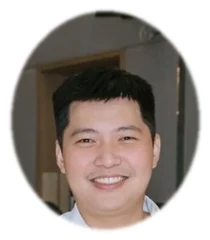
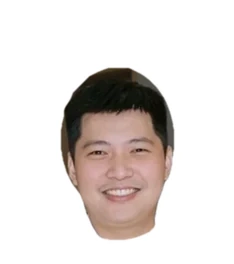
Đầu chibi cắt theo hình đầu có viền trắng dày, tay cắm hoa mượt hơn và chậm hơn, các anh xếp vòng cung vỗ tay chúc mừng
Claude-Session: https://claude.ai/code/session_01MAp9h25oyVUjyk4HgxeQqK

diff --git a/assets/modules.js b/assets/modules.js
@@ -84,11 +84,14 @@ function w20Chibi(g, cx, gy, sc, o) {
   g.fillStyle = shirt === "#ffffff" ? "#e9eef2" : "#33384a"; g.beginPath(); g.moveTo(-9, top); g.lineTo(0, top + 14); g.lineTo(9, top); g.closePath(); g.fill();
   /* tay trái (vẫy theo nhịp chạy) */
   g.lineCap = "round"; g.strokeStyle = shirt; g.lineWidth = 13;
-  g.beginPath(); g.moveTo(-26, top + 10); g.lineTo(-34 - swing * .3, top + 36 + swing * .5); g.stroke(); g.fillStyle = skin; g.beginPath(); g.arc(-34 - swing * .3, top + 40 + swing * .5, 7, 0, 6.283); g.fill();
+  g.lineJoin = "round"; var cs = o.clap == null ? 0 : (1 + Math.cos(o.clap)) / 2;
+  if (o.clap != null) { var lx = -2 - 12 * cs, ly = top + 26; g.beginPath(); g.moveTo(-26, top + 10); g.lineTo(-24 + 8 * (1 - cs), top + 30); g.lineTo(lx, ly); g.stroke(); g.fillStyle = skin; g.beginPath(); g.arc(lx, ly, 7, 0, 6.283); g.fill(); }
+  else { g.beginPath(); g.moveTo(-26, top + 10); g.lineTo(-34 - swing * .3, top + 36 + swing * .5); g.stroke(); g.fillStyle = skin; g.beginPath(); g.arc(-34 - swing * .3, top + 40 + swing * .5, 7, 0, 6.283); g.fill(); }
   /* tay phải: có o.reach=[x,y] (toạ độ canvas) thì duỗi tay 2 khúc tới đó, không thì giơ theo "up" */
-  var sx0 = 26, sy0 = top + 12, hx, hy, ex = null, ey = 0, L = 44;
-  if (o.reach) {
-    var tx = (o.reach[0] - cx) / (sc * dir), ty = (o.reach[1] - gy) / sc + lift, dx = tx - sx0, dy = ty - sy0, d = Math.sqrt(dx * dx + dy * dy) || 1, mx = 2 * L * 1.2;
+  var sx0 = 26, sy0 = top + 12, hx, hy, ex = null, ey = 0, L = 48;
+  if (o.clap != null) { hx = 2 + 12 * cs; hy = top + 26; ex = 24 - 6 * cs; ey = top + 34; }
+  else if (o.reach) {
+    var tx = (o.reach[0] - cx) / (sc * dir), ty = (o.reach[1] - gy) / sc + lift, dx = tx - sx0, dy = ty - sy0, d = Math.sqrt(dx * dx + dy * dy) || 1, mx = 2 * L * 1.02;
     if (d > mx) { dx *= mx / d; dy *= mx / d; d = mx; }
     hx = sx0 + dx; hy = sy0 + dy; var Ls = Math.max(L, d / 2 + 1), h2 = Math.sqrt(Math.max(0, Ls * Ls - d * d / 4)), ux = dx / d, uy = dy / d, mxp = sx0 + ux * d / 2, myp = sy0 + uy * d / 2;
     var e1x = mxp - uy * h2, e1y = myp + ux * h2, e2x = mxp + uy * h2, e2y = myp - ux * h2; if (e1y > e2y) { ex = e1x; ey = e1y; } else { ex = e2x; ey = e2y; }
@@ -97,11 +100,11 @@ function w20Chibi(g, cx, gy, sc, o) {
     g.strokeStyle = "#2f8a4f"; g.lineWidth = 4; g.beginPath(); g.moveTo(hx, hy - 20); g.lineTo(hx + 2, hy + 36); g.stroke();
     g.fillStyle = "#3e9a5f"; g.beginPath(); g.ellipse(hx + 9, hy + 20, 9, 4, -.6, 0, 6.283); g.fill();
   }
-  g.strokeStyle = shirt; g.lineWidth = 13; g.beginPath(); g.moveTo(sx0, sy0); if (ex !== null) g.lineTo(ex, ey); g.lineTo(hx, hy); g.stroke();
+  g.strokeStyle = shirt; g.lineWidth = 13; g.lineJoin = "round"; g.beginPath(); g.moveTo(sx0, sy0); if (ex !== null) g.lineTo(ex, ey); g.lineTo(hx, hy); g.stroke();
   g.fillStyle = skin; g.beginPath(); g.arc(hx, hy, 7.5, 0, 6.283); g.fill();
   if (o.flower) { var fs = 50; g.save(); g.translate(hx, hy - 26); g.rotate(Math.sin(step) * .06); g.drawImage(o.flower, -fs / 2, -fs / 2, fs, fs); g.restore(); }
   /* đầu to */
-  var img = o.img, hw = 112, hh = 126; if (img && img.naturalWidth) { hh = hw * img.naturalHeight / img.naturalWidth; }
+  var img = o.img, hw = 108, hh = 126; if (img && img.naturalWidth) { hh = hw * img.naturalHeight / img.naturalWidth; }
   g.save(); g.translate(0, top - hh * .36); g.rotate(Math.sin(step) * .07 * (o.run ? 1 : .3));
   if (img && img.complete && img.naturalWidth) { g.shadowColor = "rgba(0,0,0,.3)"; g.shadowBlur = 8; g.shadowOffsetY = 3; g.scale(dir, 1); g.drawImage(img, -hw / 2, -hh / 2, hw, hh); }
   else { g.fillStyle = skin; g.beginPath(); g.ellipse(0, 0, 50, 56, 0, 0, 6.283); g.fill(); g.fillStyle = "#222"; g.beginPath(); g.arc(-16, -4, 5, 0, 6.283); g.arc(16, -4, 5, 0, 6.283); g.fill(); }
@@ -118,31 +121,31 @@ function w20BouquetUI(box, opt) {
   var pal = box.querySelector(".bqpal"), cv = box.querySelector(".bqcv"), g = cv.getContext("2d"), an = box.querySelector(".bqan"), ag = an.getContext("2d"), info = box.querySelector(".bqinfo"), raf = 0, rafA = 0;
   MEN.forEach(function (m) { w20Img(m.img); });
   pal.innerHTML = W20FL.map(function (f, i) { return '<button type="button" class="fl" data-i="' + i + '" aria-label="Thêm hoa ' + f + '"><img alt="" src="' + w20FlowerSprite(i).toDataURL() + '"><span>' + f + "</span></button>"; }).join("");
-  var actors = [], queue = [], nextMan = 0, side = 1, reduce = window.matchMedia && matchMedia("(prefers-reduced-motion: reduce)").matches, pendingCount = 0;
+  var crew = [], finaleOn = false, actors = [], queue = [], nextMan = 0, side = 1, reduce = window.matchMedia && matchMedia("(prefers-reduced-motion: reduce)").matches, pendingCount = 0;
   function draw() { g.clearRect(0, 0, CW, CH); w20DrawBouquet(g, CX, CY, SR, list); }
   function text() {
     var n = list.length + pendingCount;
     info.textContent = !n ? "Chạm vào loại hoa để các anh chạy ra cắm giúp nha (tối đa " + MAX + " bông)" : n < min ? "Đã có " + n + " bông, cần thêm " + (min - n) + " bông nữa là đẹp" : "Đã có " + n + "/" + MAX + " bông. Đẹp rồi đó!";
   }
   function upd() { cancelAnimationFrame(raf); raf = requestAnimationFrame(draw); text(); opt.onChange && opt.onChange(list.slice()); }
-  function plant(a) { if (list.length >= MAX) list.shift(); list.push(a.f); pendingCount = Math.max(0, pendingCount - 1); upd(); }
+  function plant(a) { if (a.man && crew.indexOf(a.man) < 0) crew.push(a.man); if (list.length >= MAX) list.shift(); list.push(a.f); pendingCount = Math.max(0, pendingCount - 1); upd(); }
   /* hoạt cảnh: anh chạy ra, đứng cạnh bó, giơ tay cắm bông hoa vào đúng chỗ rồi vẫy (ms) */
-  var T_IN = 900, T_REACH = 500, T_INS = 550, T_WAVE = 600, T_OUT = 700;
+  var T_IN = 1500, T_REACH = 800, T_INS = 900, T_WAVE = 800, T_OUT = 1000;
   function spawn(f) {
     var man = MEN.length ? MEN[nextMan++ % MEN.length] : null, sl = W20SLOT[Math.min(list.length + actors.length, MAX - 1)] || W20SLOT[0], dir;
     if (sl[0] < -.05) dir = 1; else if (sl[0] > .05) dir = -1; else { dir = side; side = -side; }
-    var gx = CX + sl[0] * SR, gy = CY + sl[1] * SR, tx = Math.max(118, Math.min(CW - 118, gx - dir * 165));
+    var gx = CX + sl[0] * SR, gy = CY + sl[1] * SR, tx = Math.max(118, Math.min(CW - 118, gx - dir * 120));
     var a = { f: f, man: man, t0: performance.now(), dir: dir, planted: false, sx: dir > 0 ? -120 : CW + 120, tx: tx, slot: [gx, gy + 26 * SC], ph: Math.random() * 6 };
     actors.push(a); pendingCount++; text(); if (reduce) { plant(a); actors.pop(); return; } loopA();
   }
   function ease(k) { return k < .5 ? 2 * k * k : 1 - Math.pow(-2 * k + 2, 2) / 2; }
   function lerp2(p, q, k) { return [p[0] + (q[0] - p[0]) * k, p[1] + (q[1] - p[1]) * k]; }
   function step(a, now) {
-    var t = now - a.t0, d = a.dir, o = { img: man_img(a), shirt: a.man && a.man.shirt, step: now / 70 + a.ph, run: 1, dir: d, flower: w20FlowerSprite(a.f) }, x = a.tx, lift = 0;
+    var t = now - a.t0, d = a.dir, o = { img: man_img(a), shirt: a.man && a.man.shirt, step: now / 110 + a.ph, run: 1, dir: d, flower: w20FlowerSprite(a.f) }, x = a.tx, lift = 0;
     var carry = function (xx) { return [xx + d * 34 * SC, GY - 76 * SC]; }, appr = [a.slot[0] - d * 55, a.slot[1] - 70];
-    if (t < T_IN) { var e = 1 - Math.pow(1 - t / T_IN, 2); x = a.sx + (a.tx - a.sx) * e; o.reach = carry(x); lift = Math.abs(Math.sin(now / 80 + a.ph)) * 6; }
-    else if (t < T_IN + T_REACH) { var k = ease((t - T_IN) / T_REACH); o.run = 0; o.step = 1.6; lift = 30 * k; o.reach = lerp2(carry(x), appr, k); }
-    else if (t < T_IN + T_REACH + T_INS) { var k2 = ease((t - T_IN - T_REACH) / T_INS); o.run = 0; o.step = 1.6; lift = 30 + Math.sin(k2 * Math.PI) * 4; o.reach = lerp2(appr, a.slot, k2); }
+    if (t < T_IN) { var e = 1 - Math.pow(1 - t / T_IN, 2); x = a.sx + (a.tx - a.sx) * e; o.reach = carry(x); lift = Math.abs(Math.sin(now / 120 + a.ph)) * 6; }
+    else if (t < T_IN + T_REACH) { var k = ease((t - T_IN) / T_REACH); o.run = 0; o.step = 1.6; lift = 48 * k; o.reach = lerp2(carry(x), appr, k); }
+    else if (t < T_IN + T_REACH + T_INS) { var k2 = ease((t - T_IN - T_REACH) / T_INS); o.run = 0; o.step = 1.6; lift = 48 + Math.sin(k2 * Math.PI) * 4; o.reach = lerp2(appr, a.slot, k2); }
     else if (t < T_IN + T_REACH + T_INS + T_WAVE) {
       if (!a.planted) { a.planted = true; plant(a); }
       var k3 = (t - T_IN - T_REACH - T_INS) / T_WAVE; o.run = 0; o.flower = null; o.step = now / 90; lift = Math.abs(Math.sin(k3 * Math.PI * 2)) * 24 + 12 * (1 - k3);
@@ -163,7 +166,27 @@ function w20BouquetUI(box, opt) {
   give.onclick = function (e) {
     if (actors.length || queue.length) { info.textContent = "Đợi các anh cắm xong đã nha 😄"; return; }
     if (list.length < min) { info.textContent = "Cắm ít nhất " + min + " bông rồi bấm Xong nha 🌷"; info.classList.remove("shake"); void info.offsetWidth; info.classList.add("shake"); return; }
-    opt.onDone && opt.onDone(list.slice(), e);
+    if (finaleOn) return; var ev = e, go = function () { finaleOn = false; opt.onDone && opt.onDone(list.slice(), ev); };
+    var men = crew.length ? crew : MEN.slice(0, 6); if (reduce || !men.length) { go(); return; }
+    finaleOn = true; give.disabled = true; var T0 = performance.now(), n = men.length, T_RUN = 1300, T_CLAP = 3000;
+    info.textContent = "Cả nhà vỗ tay chúc mừng chị nào! 👏👏👏";
+    /* xếp vòng cung quanh bó hoa: người ở phía sau đứng cao hơn và nhỏ hơn, người phía trước đứng thấp và to hơn */
+    var ppl = men.map(function (m, i) {
+      var u = n > 1 ? i / (n - 1) : .5, th = Math.PI * (.8 + 1.4 * u), sn = Math.sin(th), f = 1.12 + .2 * (sn + 1) / 2;
+      return { m: m, i: i, x: CX + 275 * Math.cos(th), y: 482 + 100 * sn, f: f, back: sn < -.05, sx: Math.cos(th) < 0 ? -110 : CW + 110 };
+    }).sort(function (p, q) { return p.y - q.y; });
+    (function fr(now) {
+      var t = now - T0; ag.clearRect(0, 0, CW, CH); var k = Math.min(1, t / T_RUN), e2 = 1 - Math.pow(1 - k, 2), bq = false;
+      function drawP(P) {
+        var x = P.sx + (P.x - P.sx) * e2, dir = P.x < CX ? 1 : -1, o = { img: w20Img(P.m.img), shirt: P.m.shirt, dir: dir, step: now / 110 + P.i, lift: 0 };
+        if (k < 1) { o.run = 1; o.reach = [x + dir * 34 * P.f, P.y - 74 * P.f]; o.lift = Math.abs(Math.sin(now / 120 + P.i)) * 5; }
+        else { o.clap = (t - T_RUN) / 95 + P.i * .7; o.lift = Math.abs(Math.sin((t - T_RUN) / 190 + P.i * .5)) * 12; o.step = 1.6; }
+        w20Chibi(ag, x, P.y, P.f, o);
+      }
+      ppl.forEach(function (P) { if (!P.back && !bq) { w20DrawBouquet(ag, CX, CY, SR, list); bq = true; } drawP(P); });
+      if (!bq) w20DrawBouquet(ag, CX, CY, SR, list);
+      if (t < T_RUN + T_CLAP) requestAnimationFrame(fr); else { ag.clearRect(0, 0, CW, CH); go(); }
+    })(T0);
   };
   draw(); text();
   return { list: function () { return list.slice(); }, give: give, canvas: cv, busy: function () { return actors.length > 0; } };
